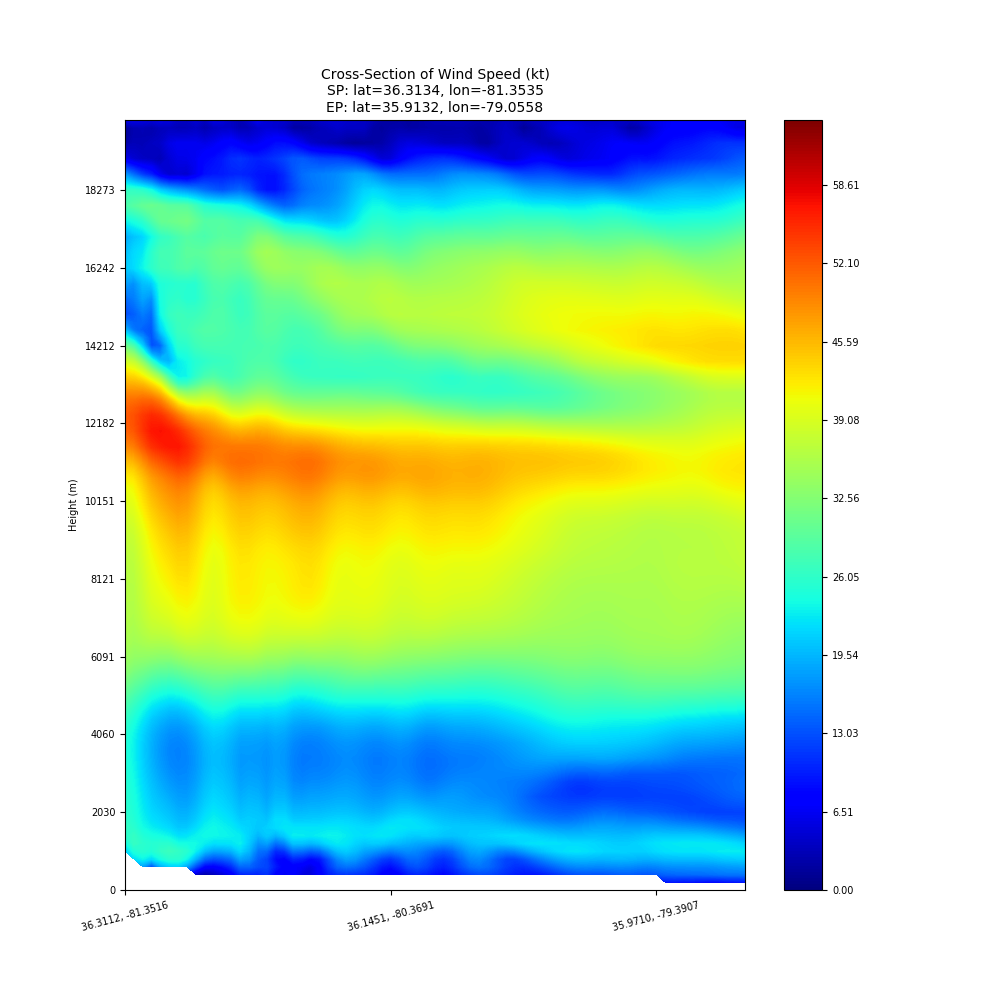
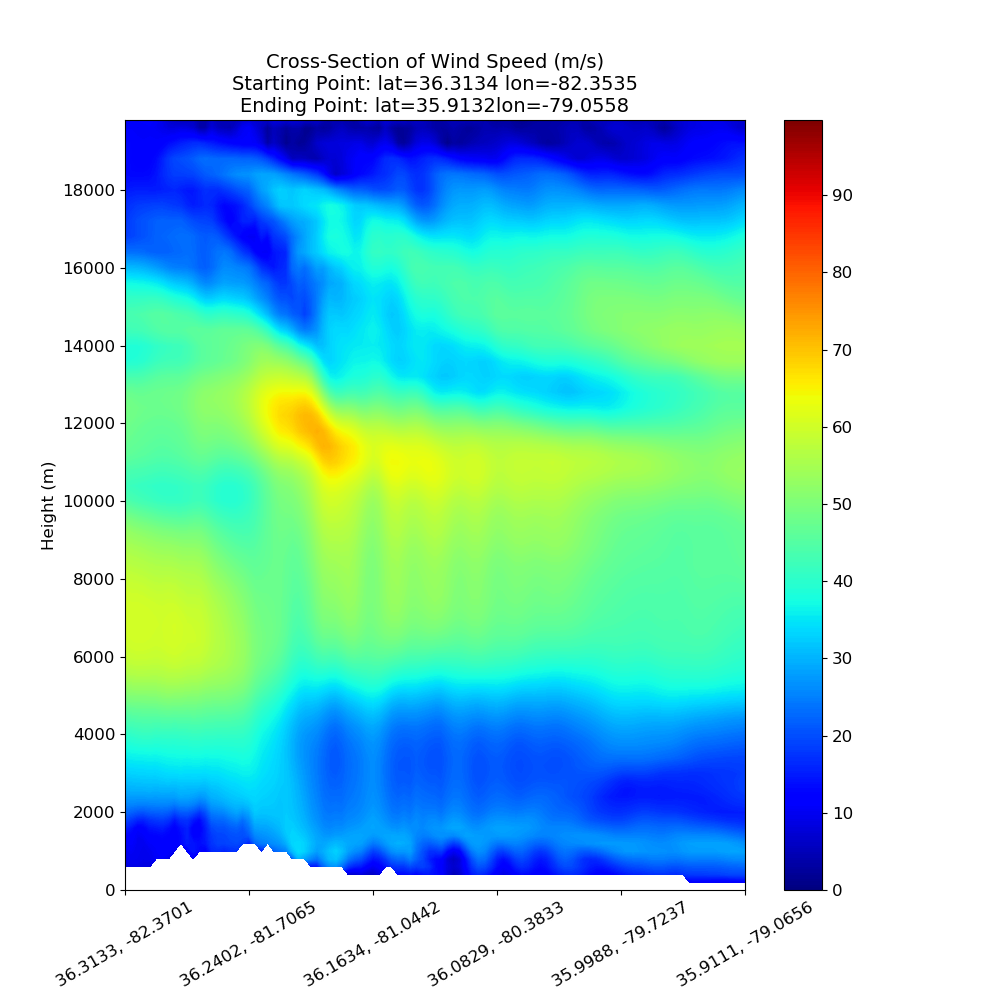
Plots now more easily comparable with numerous changes

diff --git a/CrossSection.py b/CrossSection.py
@@ -37,7 +37,7 @@ for wrffile in glob.iglob(dir_list):
         wspd = getvar(ncfile, "wspd_wdir", units="m/s")[0,:]
 
         # Set the start point and end point for the cross section
-        start_point = CoordPair(lat=36.3134, lon=-81.3535)
+        start_point = CoordPair(lat=36.3134, lon=-82.3535)
         end_point = CoordPair(lat=35.9132, lon=-79.0558)
 
         # Compute the vertical cross-section interpolation.  Also, include the lat/lon
@@ -59,13 +59,14 @@ for wrffile in glob.iglob(dir_list):
         ax_wspd = fig.add_subplot(1, 1, 1)
 
         # Make the contour plot for wind speed
-        wspd_contours = ax_wspd.contourf(to_np(wspd_cross), cmap=get_cmap("jet"), levels=np.linspace(0, 64, 512))
+        wspd_contours = ax_wspd.contourf(to_np(wspd_cross), cmap=get_cmap("jet"), levels=np.linspace(0, 80, 400))
 
         # Add the color bar
         cb_wspd = fig.colorbar(wspd_contours, ax=ax_wspd)
 
         # cb_wspd.locator = tick_locator
-        cb_wspd.ax.tick_params(labelsize=7)
+        cb_wspd.ax.tick_params(labelsize=12)
+        cb_wspd.ax.set_yticklabels([0, 10, 20, 30, 40, 50, 60, 70, 80, 90, 100])
 
         # Make the contour plot for dbz
         levels = [5 + 5*n for n in range(15)]
@@ -75,8 +76,8 @@ for wrffile in glob.iglob(dir_list):
         x_ticks = np.arange(coord_pairs.shape[0])
         x_labels = [pair.latlon_str() for pair in to_np(coord_pairs)]
 
-        ax_wspd.set_xticks(x_ticks[::30])
-        ax_wspd.set_xticklabels(x_labels[::30], fontsize=7, rotation=15)
+        ax_wspd.set_xticks(x_ticks[::20])
+        ax_wspd.set_xticklabels(x_labels[::20], fontsize=12, rotation=30)
 
         # Set the y-ticks to be height
         vert_vals = to_np(dbz_cross.coords["vertical"]).astype(int)
@@ -84,11 +85,12 @@ for wrffile in glob.iglob(dir_list):
 
         v_ticks = np.arange(vert_vals.shape[0])
 
+        round_vals = range(0, 20000)
         ax_wspd.set_yticks(v_ticks[::10])  # every 10 ax_wspd values serve as tick mark
-        ax_wspd.set_yticklabels(vert_vals[::10], fontsize=7)
+        ax_wspd.set_yticklabels(round_vals[0:20000:2000], fontsize=12)
 
         # Set the x-axis and  y-axis labels
-        ax_wspd.set_ylabel("Height (m)", fontsize=7)
+        ax_wspd.set_ylabel("Height (m)", fontsize=12)
 
         # For the second plot, all grouped together
         # ax_wspd_zoom = fig.add_subplot(2, 1, 2)
@@ -105,9 +107,9 @@ for wrffile in glob.iglob(dir_list):
 
         try:
             # Add a title
-            ax_wspd.set_title("Cross-Section of Wind Speed (kt)\n"
-                              "SP: lat=36.3134, lon=-81.3535\n"
-                              "EP: lat=35.9132, lon=-79.0558", {"fontsize": 10})
+            ax_wspd.set_title("Cross-Section of Wind Speed (m/s)\n"
+                              "Starting Point: lat=" + str(start_point.lat) + " lon=" + str(start_point.lon) + "\n"
+                              "Ending Point: lat=" + str(end_point.lat) + "lon=" + str(end_point.lon), {"fontsize": 14})
             # ax_wspd_zoom.set_title("Zoomed Cross-Section of Lower Elevation Wind Speed", {"fontsize": 8})
             fin_name = wrffile.split('/')  # need to change to \\ for windows, / for macOS
             # plt.show()
